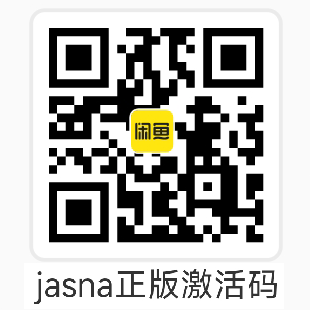
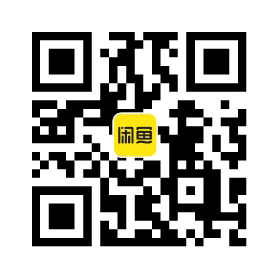
fix(gui): show only the Xianyu QR code with the seller's purchase hint

diff --git a/jasna/gui/locales/th.py b/jasna/gui/locales/th.py
@@ -491,7 +491,7 @@ TH = {
         "unifans_support": "Unifans",
         "xianyu_support": "闲鱼",
         "xianyu_dialog_title": "ซื้อบน Xianyu",
-        "xianyu_scan_hint": "สแกนคิวอาร์โค้ดนี้ด้วยแอป Xianyu สินค้าชื่อ jasna正版激活码 หลังสั่งซื้อ ผู้ขายจะส่งรหัสสิทธิ์ให้คุณ",
+        "xianyu_scan_hint": "ผู้ใช้ในจีน: สแกนคิวอาร์โค้ดนี้ด้วย Xianyu (闲鱼) เพื่อซื้อ",
 
         # Tooltips
         "tip_max_clip_size": "จำนวนเฟรมที่ฟื้นฟูพร้อมกัน คลิปใหญ่ขึ้นให้ผลนิ่งกว่าและเร็วกว่า แต่ใช้ VRAM มากขึ้น\n\nใช้ขนาดใหญ่ที่สุดที่ VRAM รองรับ ที่ 1080p ค่า 90 ใช้ประมาณ 4 GB และ 180 ประมาณ 5 GB วิดีโอ 4K ใช้มากกว่าประมาณ 1.5 เท่า\nVRAM ไม่พอ? ลดค่านี้ก่อน\nค่าเริ่มต้น: 90",

diff --git a/jasna/gui/locales/ja.py b/jasna/gui/locales/ja.py
@@ -491,7 +491,7 @@ JA = {
         "unifans_support": "Unifans",
         "xianyu_support": "闲鱼",
         "xianyu_dialog_title": "闲鱼で購入",
-        "xianyu_scan_hint": "闲鱼アプリでこの QR コードをスキャンしてください。商品名は jasna正版激活码 です。注文後、出品者からライセンスコードが届きます。",
+        "xianyu_scan_hint": "中国のユーザーは「闲鱼」でこの QR コードをスキャンして購入してください。",
 
         # Tooltips
         "tip_max_clip_size": "一度に復元するフレーム数です。大きいほど安定した結果になり速くなりますが、VRAM を多く使います。\n\nVRAM に収まる最大のサイズを使ってください。1080p では 90 で約 4 GB、180 で約 5 GB です。4K では約 1.5 倍必要です。\nVRAM が足りないときは、まずこれを下げてください。\nデフォルト：90",

diff --git a/jasna/gui/locales/ko.py b/jasna/gui/locales/ko.py
@@ -491,7 +491,7 @@ KO = {
         "unifans_support": "Unifans",
         "xianyu_support": "闲鱼",
         "xianyu_dialog_title": "Xianyu(闲鱼)에서 구매",
-        "xianyu_scan_hint": "Xianyu 앱으로 이 QR 코드를 스캔하세요. 상품명은 jasna正版激活码입니다. 주문하면 판매자가 라이선스 코드를 보내 줍니다.",
+        "xianyu_scan_hint": "중국 사용자는 Xianyu(闲鱼)로 이 QR 코드를 스캔해 구매하세요.",
 
         # Tooltips
         "tip_max_clip_size": "함께 복원하는 프레임 수입니다. 클수록 결과가 안정적이고 빠르지만 VRAM을 더 사용합니다.\n\nVRAM에 맞는 가장 큰 값을 사용하세요. 1080p에서 90은 약 4GB, 180은 약 5GB가 필요합니다. 4K는 약 1.5배 더 필요합니다.\nVRAM이 부족하면 이 값부터 낮추세요.\n기본값: 90",

diff --git a/jasna/gui/locales/en.py b/jasna/gui/locales/en.py
@@ -491,7 +491,7 @@ EN = {
         "unifans_support": "Unifans",
         "xianyu_support": "闲鱼",
         "xianyu_dialog_title": "Buy on Xianyu",
-        "xianyu_scan_hint": "Scan this QR code with the Xianyu app. The item is called jasna正版激活码. After you order, the seller sends you a License code.",
+        "xianyu_scan_hint": "Users in China: scan this QR code with Xianyu to buy.",
         
         # Tooltips
         "tip_max_clip_size": "How many frames are restored together. Bigger clips give a steadier result and are faster, but use more VRAM.\n\nUse the biggest size that fits in your VRAM. At 1080p, 90 needs about 4 GB and 180 about 5 GB. 4K needs about 1.5x more.\nOut of VRAM? Lower this first.\nDefault: 90",

diff --git a/jasna/gui/locales/zh.py b/jasna/gui/locales/zh.py
@@ -491,7 +491,7 @@ ZH = {
         "unifans_support": "Unifans",
         "xianyu_support": "闲鱼",
         "xianyu_dialog_title": "在闲鱼购买",
-        "xianyu_scan_hint": "用闲鱼 App 扫描这个二维码。商品名称是 jasna正版激活码。下单后，卖家会发给你许可证码。",
+        "xianyu_scan_hint": "中国用户请使用“闲鱼”扫描此二维码进行购买",
         
         # Tooltips
         "tip_max_clip_size": "一起修复的帧数。片段越大，效果越稳定、速度越快，但占用更多显存。\n\n在显存允许的范围内用最大的值。1080p 下，90 约需 4 GB，180 约需 5 GB。4K 约需 1.5 倍。\n显存不足？先降低这个值。\n默认值：90",

diff --git a/docs/zh/gui.md b/docs/zh/gui.md
@@ -108,4 +108,4 @@
 [Unifans](https://app.unifans.io/c/kruk2)，以及面向中国的
 [闲鱼 (Xianyu)](../../README.zh.md#在闲鱼购买) 出售。价格：见
 [支持本项目](../../README.zh.md#支持本项目)。
-界面顶部的 **闲鱼** 按钮会显示闲鱼商品的二维码，用闲鱼 App 扫描即可购买。
+界面顶部的 **闲鱼** 按钮会显示卖家的闲鱼二维码，用闲鱼 App 扫描即可打开卖家主页购买。
